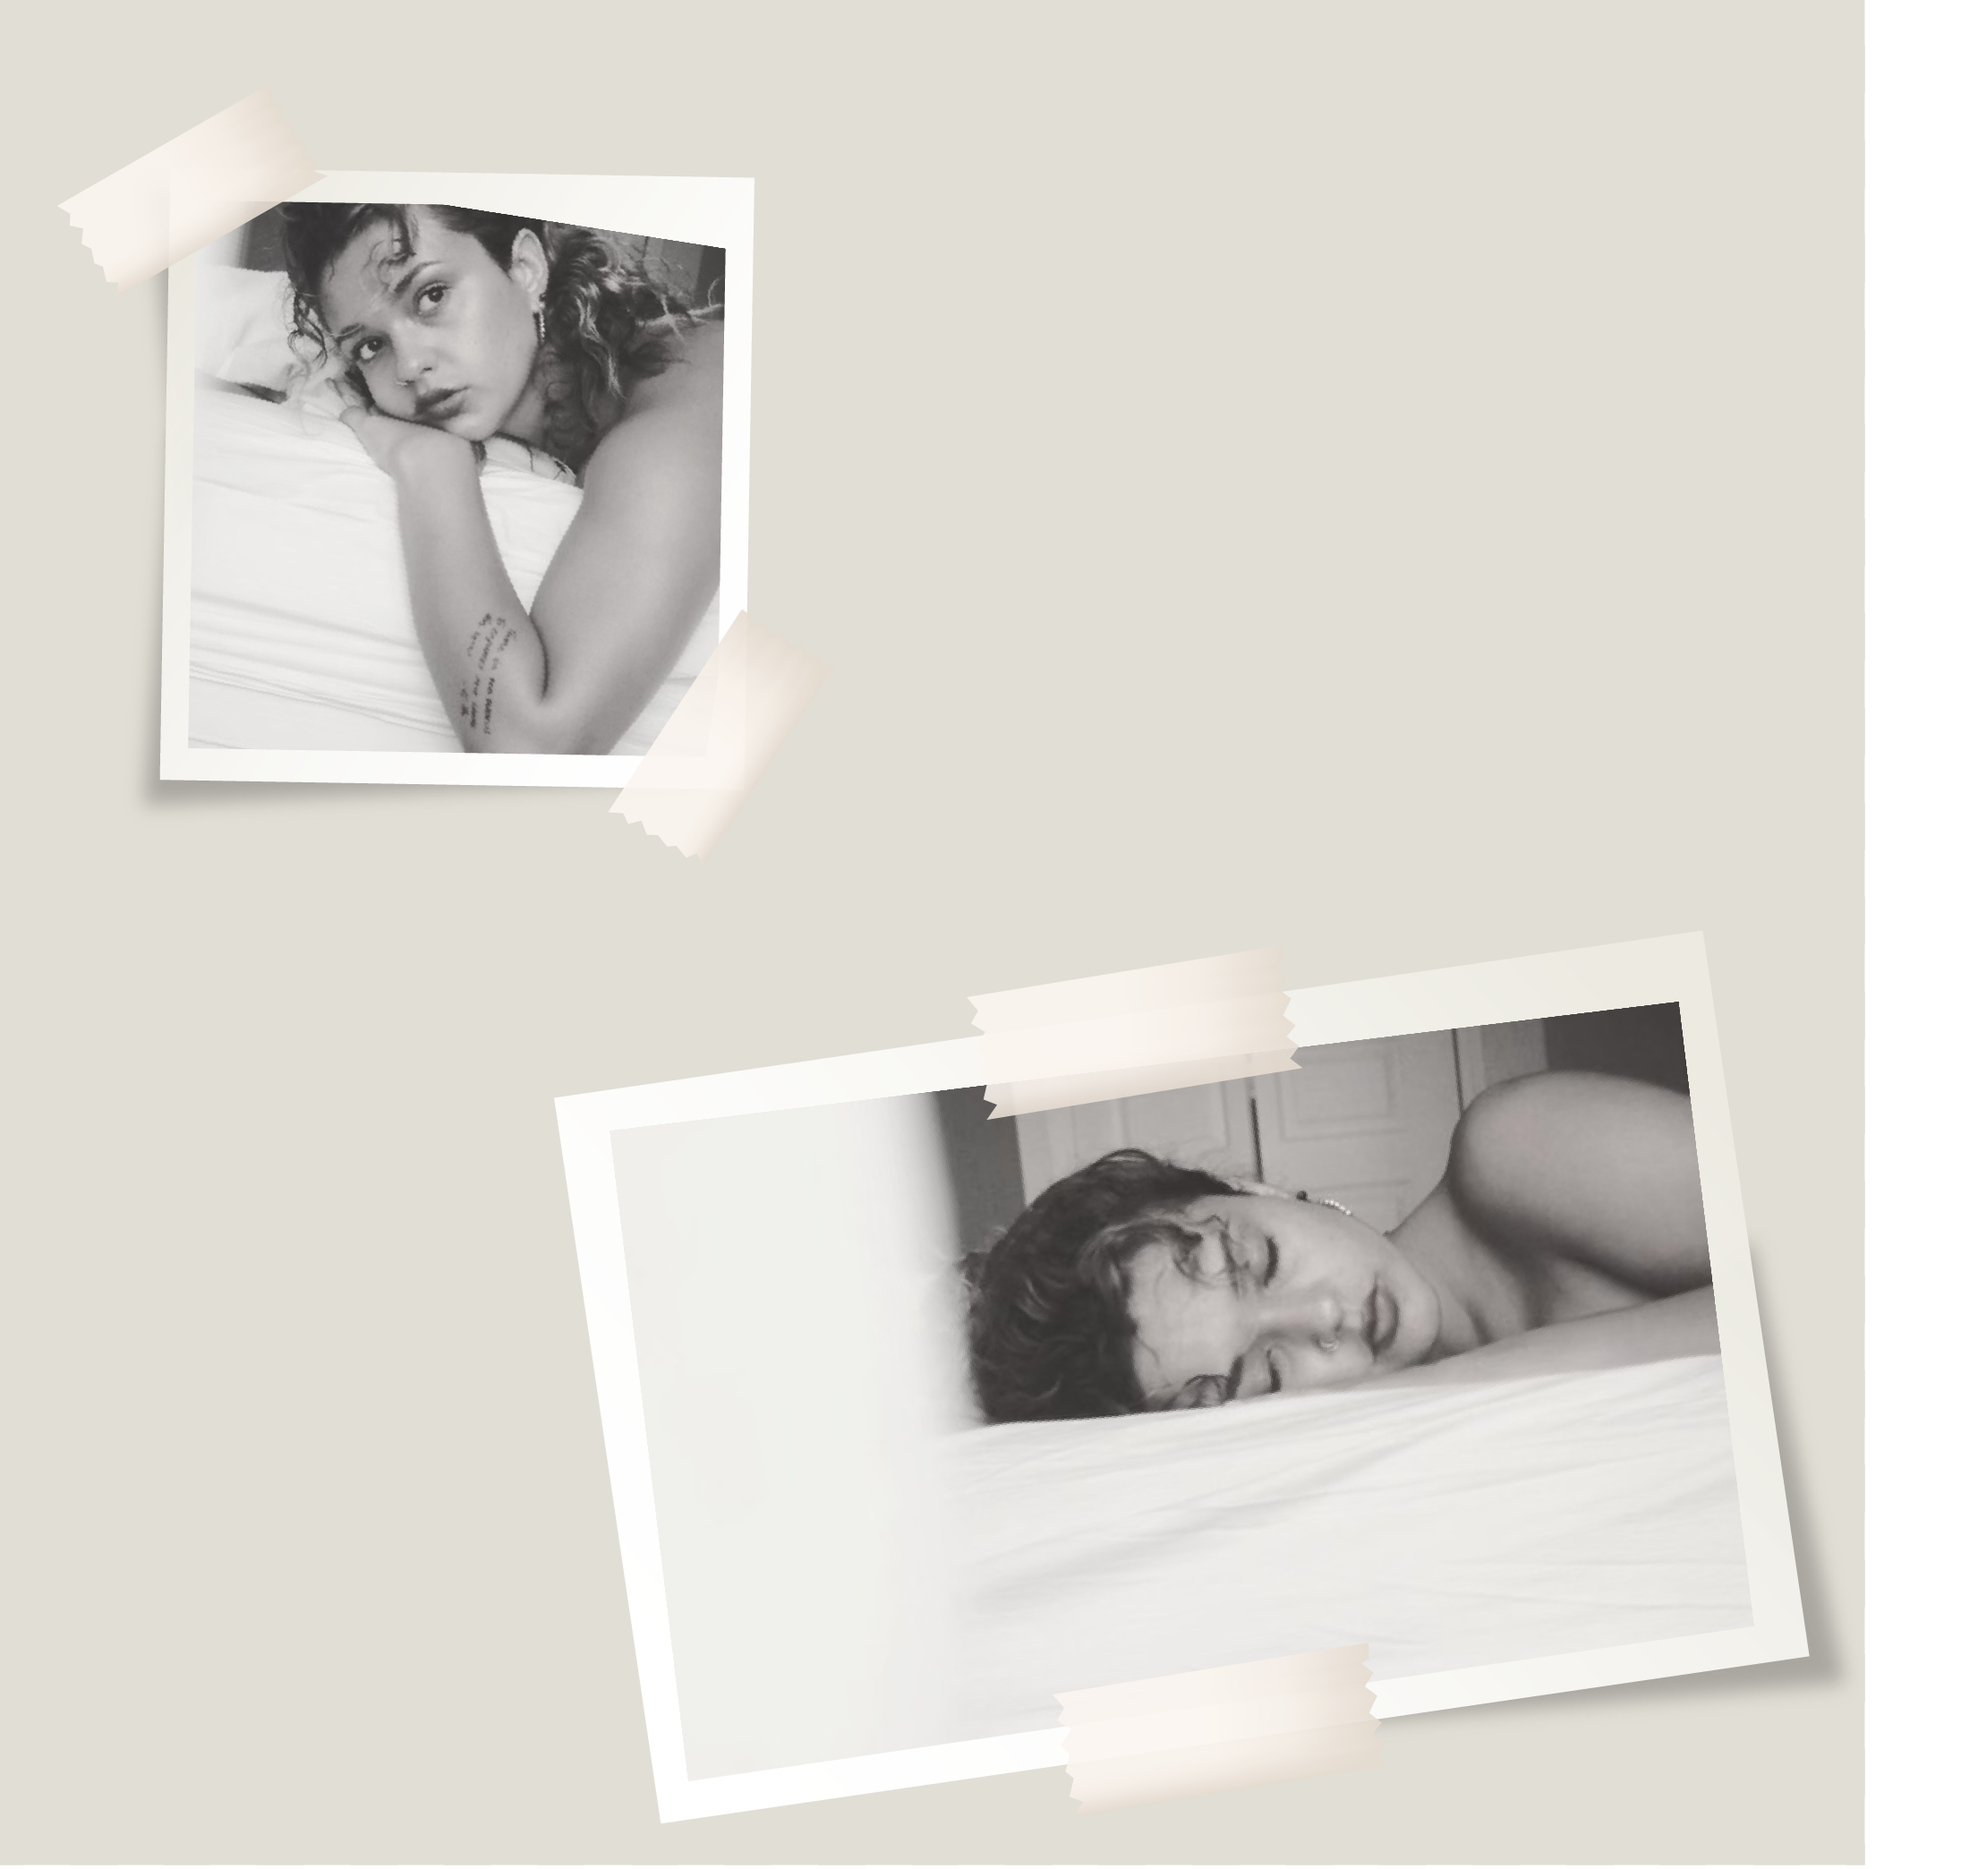
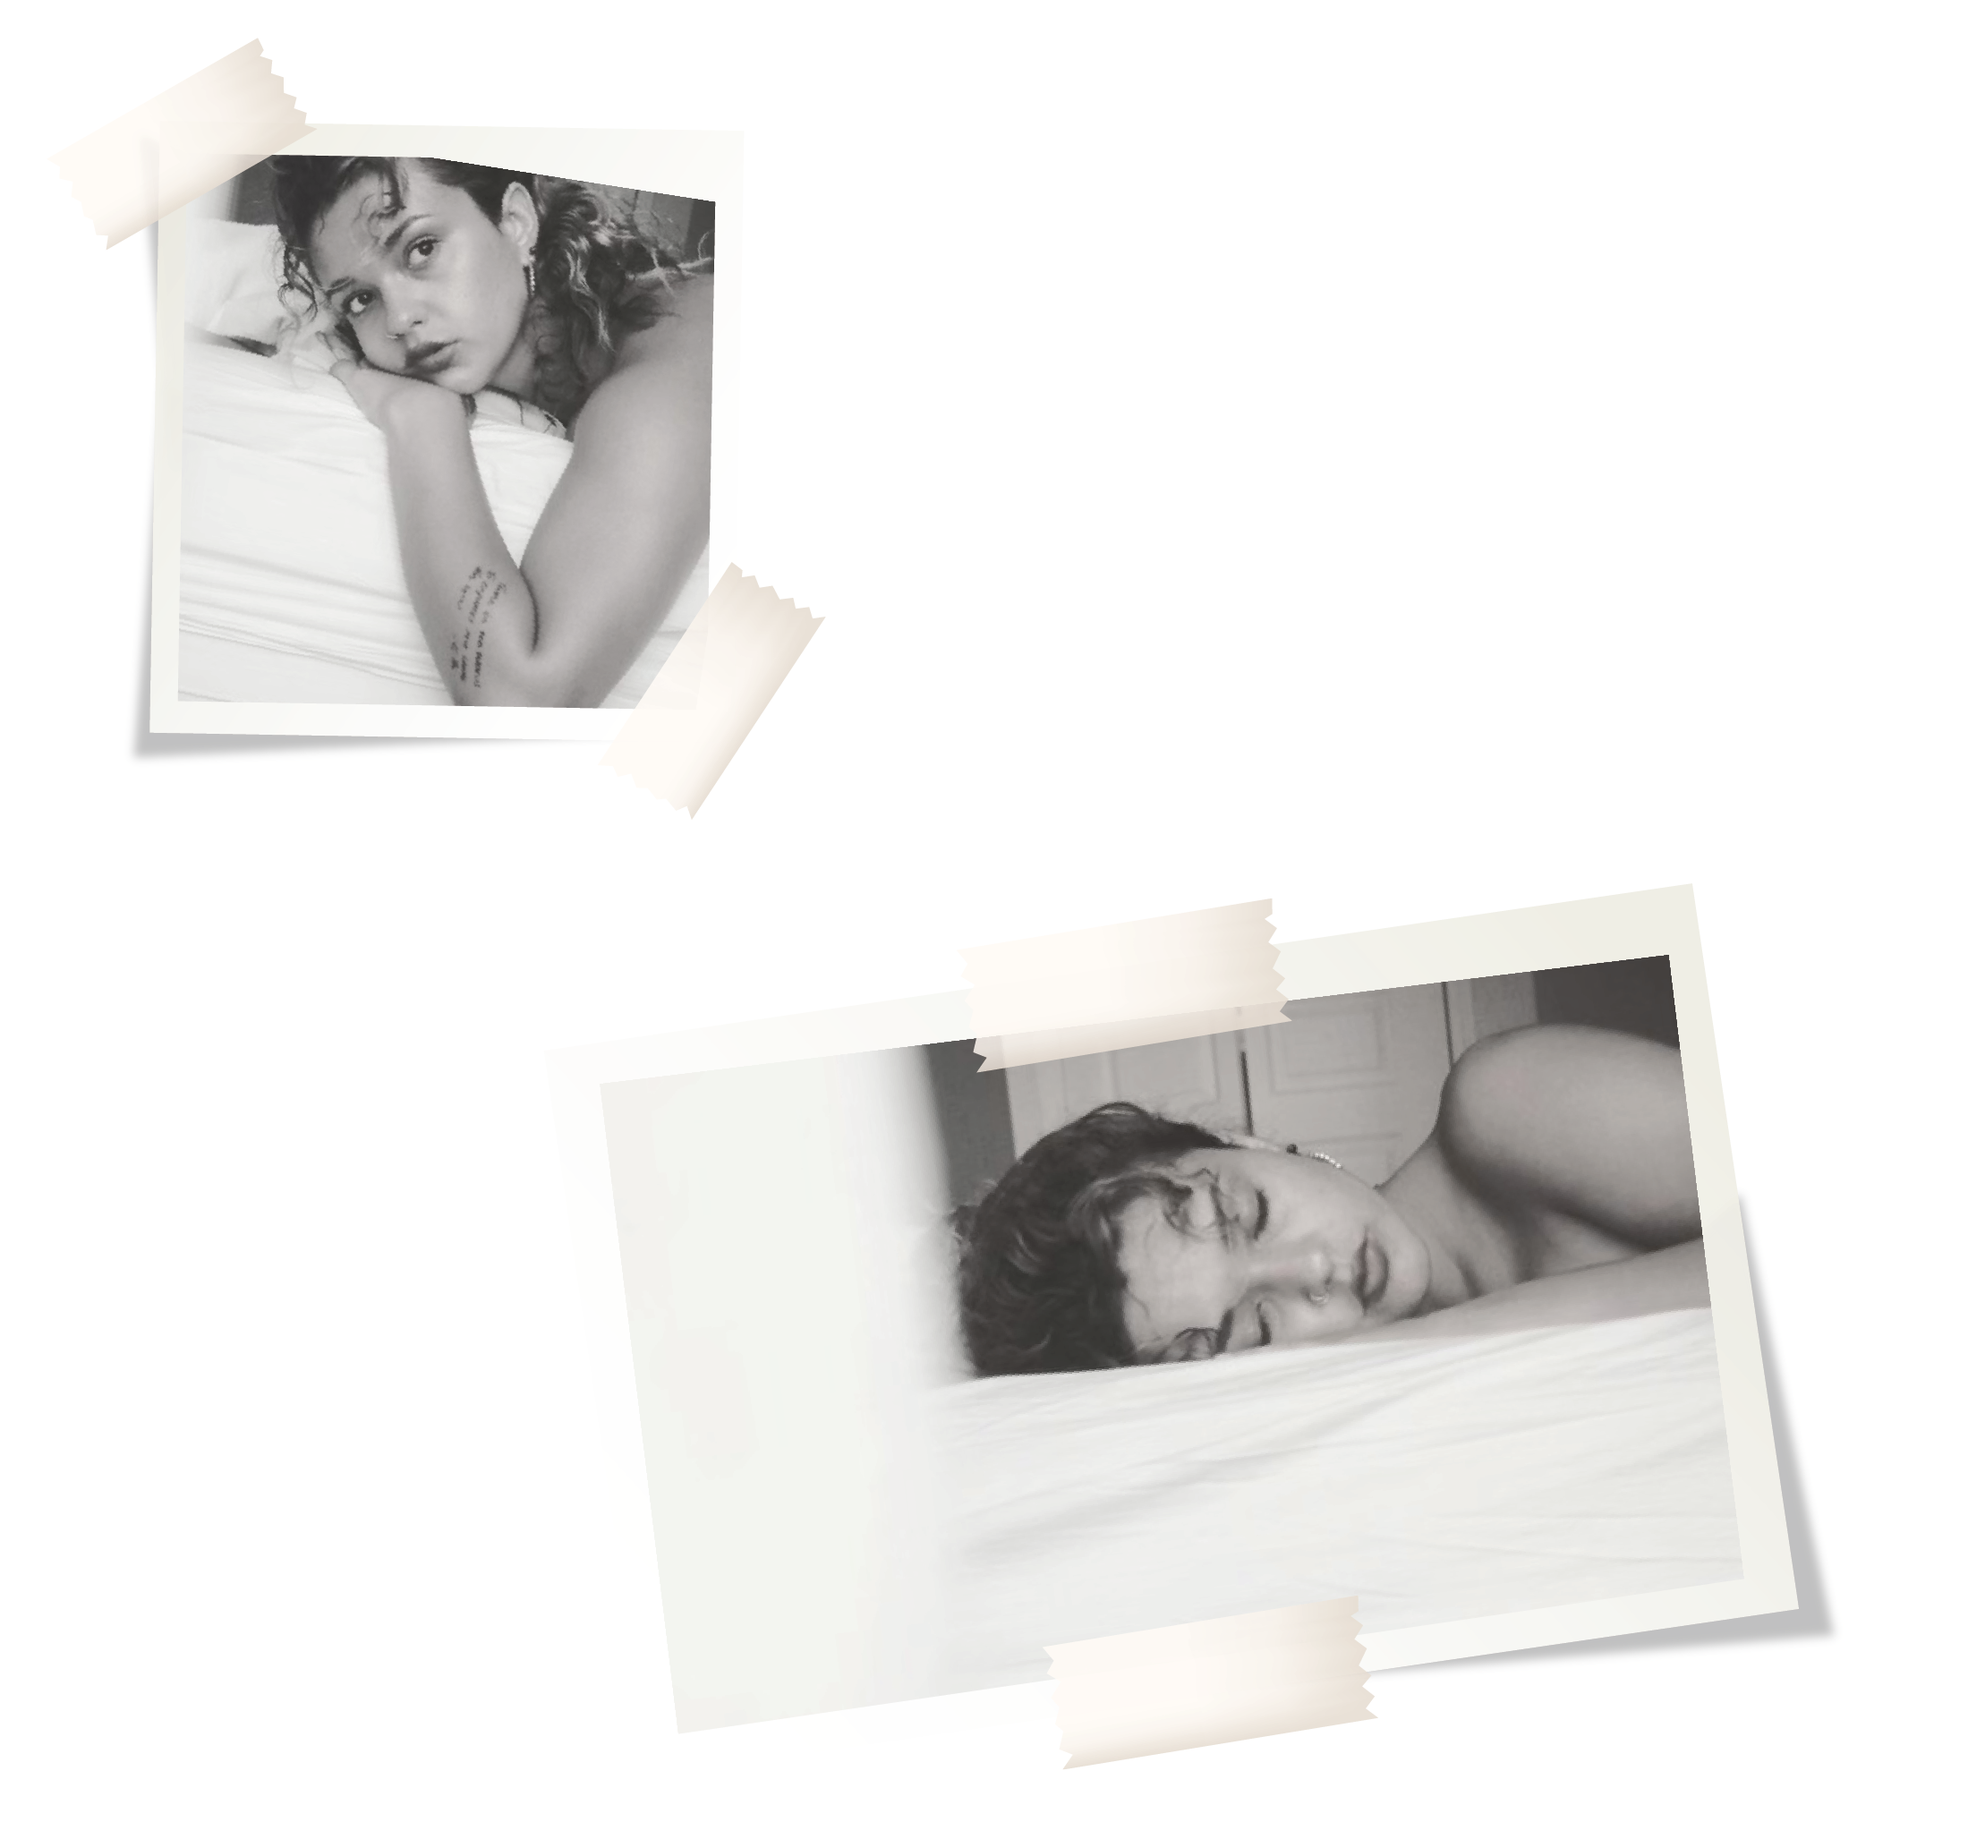
movments

diff --git a/pages/her.html b/pages/her.html
@@ -49,7 +49,7 @@
   .imagecontainer {
     text-align: left;
     margin-top: 50px;
-    transform: translateX(20px) translateY(20px);
+    transform: translateY(-256px);
   }
  .center {
    text-align: center;
